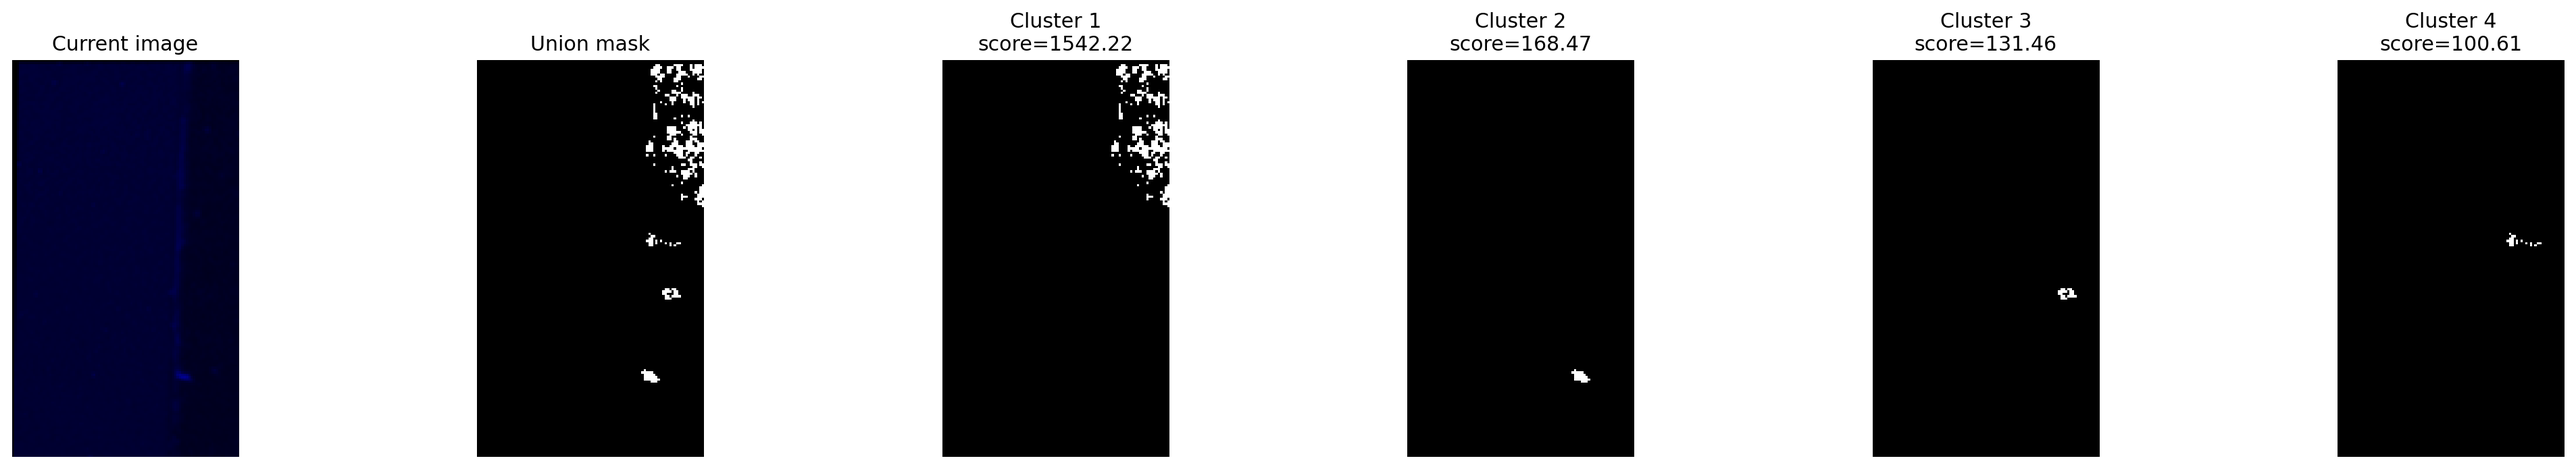
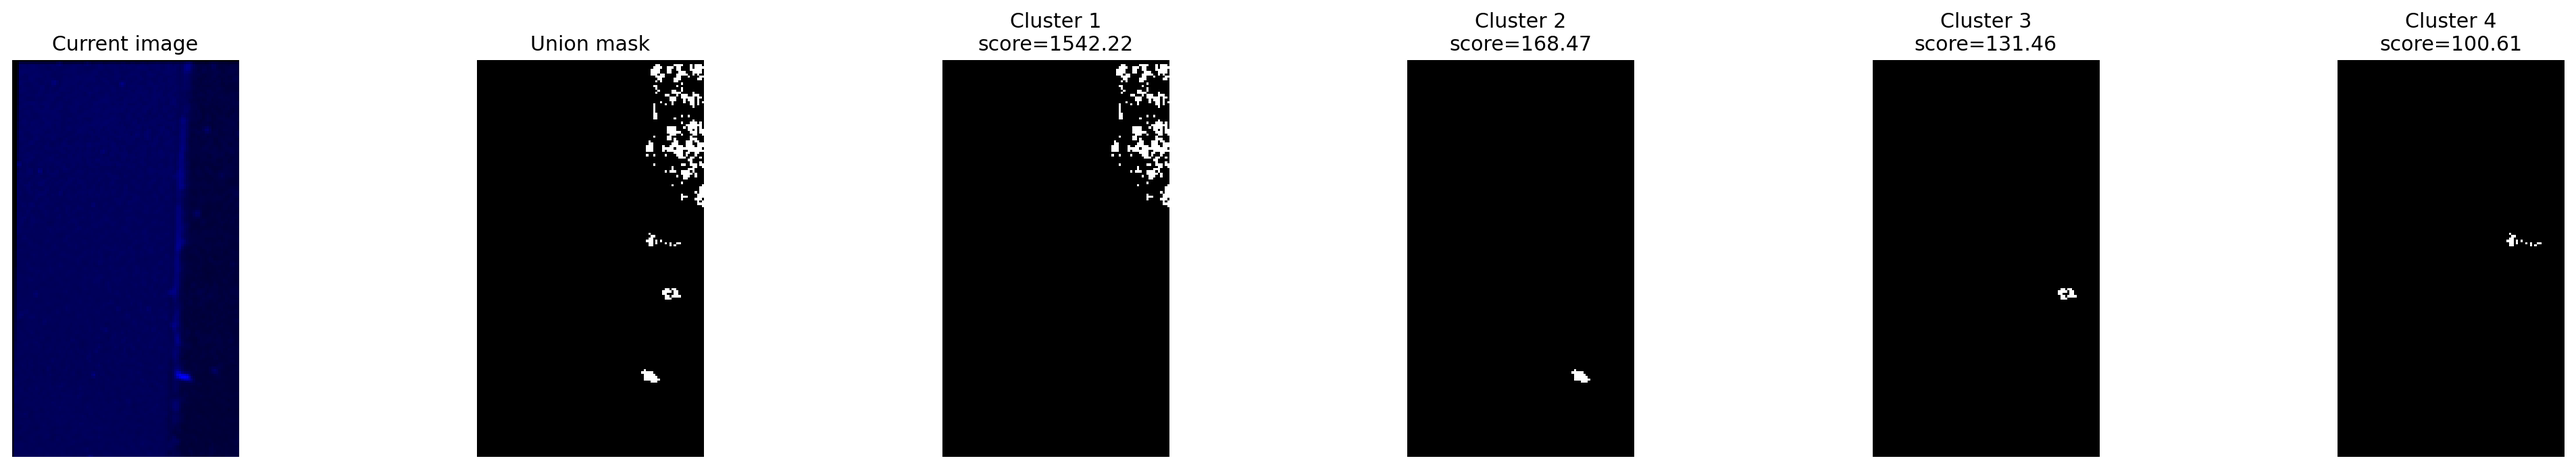
record timing for experiments

Changed region(s): [[0.0, 0.1209, 0.0936, 0.9971]]

diff --git a/scripts/time_uvifl_sequence.py b/scripts/time_uvifl_sequence.py
@@ -1,0 +1,71 @@
+import argparse
+from pathlib import Path
+import sys
+from time import perf_counter
+
+PROJECT_ROOT = Path(__file__).resolve().parents[1]
+if str(PROJECT_ROOT) not in sys.path:
+    sys.path.insert(0, str(PROJECT_ROOT))
+
+from src.config import load_uvifl_config
+from src.detector import AContrarioDetector
+from src.experiments import prepare_uvifl_pair
+
+
+def parse_args() -> argparse.Namespace:
+    parser = argparse.ArgumentParser(description="Measure runtime for one full UVIFL sequence.")
+    parser.add_argument("--config", type=Path, required=True)
+    parser.add_argument("--sequence", type=str, required=True)
+    parser.add_argument("--time", type=int)
+    parser.add_argument("--output-root", type=Path, default=Path("outputs/timings"))
+    return parser.parse_args()
+
+
+def main() -> None:
+    args = parse_args()
+    config = load_uvifl_config(args.config)
+    sequence_config = config.sequences[args.sequence]
+    detector = AContrarioDetector(config.detector)
+    times = [args.time] if args.time is not None else sequence_config.candidate_times
+
+    args.output_root.mkdir(parents=True, exist_ok=True)
+
+    lines: list[str] = []
+    lines.append(f"Sequence: {sequence_config.name}")
+    lines.append(f"Config: {args.config}")
+    lines.append(f"Max points: {config.detector.max_points}")
+    lines.append(f"Quantization levels: {config.detector.quantization_levels}")
+    lines.append("")
+
+    total_start = perf_counter()
+    for time in times:
+        start = perf_counter()
+        pair = prepare_uvifl_pair(sequence_config, config.preprocessing, time)
+        result = detector.run(pair.diff_map)
+        elapsed = perf_counter() - start
+        lines.append(
+            f"time={time:02d} shot={pair.chosen_shot} "
+            f"elapsed_seconds={elapsed:.4f} "
+            f"selected_clusters={len(result.selected_clusters)}"
+        )
+    total_elapsed = perf_counter() - total_start
+
+    lines.append("")
+    lines.append(f"Total elapsed seconds: {total_elapsed:.4f}")
+    lines.append(f"Average per timepoint seconds: {total_elapsed / len(times):.4f}")
+
+    max_points = "none" if config.detector.max_points is None else str(config.detector.max_points)
+    quantization = config.detector.quantization_levels
+    time_suffix = f"_time_{args.time:02d}" if args.time is not None else "_all_times"
+    output_path = (
+        args.output_root
+        / f"{sequence_config.name}{time_suffix}_maxpoints_{max_points}_qlevels_{quantization}_timing.txt"
+    )
+    output_path.write_text("\n".join(lines) + "\n", encoding="utf-8")
+
+    print(f"Wrote timing report to {output_path}")
+    print(f"Total elapsed seconds: {total_elapsed:.4f}")
+
+
+if __name__ == "__main__":
+    main()

diff --git a/src/visualization.py b/src/visualization.py
@@ -12,6 +12,19 @@ def ensure_dir(path: Path) -> None:
     path.mkdir(parents=True, exist_ok=True)
 
 
+def displayable_rgb(image: np.ndarray) -> np.ndarray:
+    image = image.astype(np.float32)
+    if image.size == 0:
+        return image
+    image_min = float(image.min())
+    image_max = float(image.max())
+    if image_max <= 1.0 and image_min >= 0.0:
+        return image
+    if image_max - image_min < 1e-8:
+        return np.zeros_like(image, dtype=np.float32)
+    return (image - image_min) / (image_max - image_min)
+
+
 def binary_mask_image(mask: np.ndarray) -> np.ndarray:
     return np.where(mask, 255, 0).astype(np.uint8)
 
@@ -29,7 +42,7 @@ def save_cluster_gallery(result: DetectionResult, pair: PreparedPair, out_path: 
     fig, axes = plt.subplots(1, columns, figsize=(4 * columns, 4))
 
     axes = np.atleast_1d(axes)
-    axes[0].imshow(pair.target)
+    axes[0].imshow(displayable_rgb(pair.target))
     axes[0].set_title("Current image")
     axes[0].axis("off")
 
@@ -68,15 +81,15 @@ def save_cluster_overlay_panel(result: DetectionResult, pair: PreparedPair, out_
     fig, axes = plt.subplots(1, 3, figsize=(15, 5))
     axes = np.atleast_1d(axes)
 
-    axes[0].imshow(pair.reference)
+    axes[0].imshow(displayable_rgb(pair.reference))
     axes[0].set_title("Reference")
     axes[0].axis("off")
 
-    axes[1].imshow(pair.target)
+    axes[1].imshow(displayable_rgb(pair.target))
     axes[1].set_title("Current")
     axes[1].axis("off")
 
-    axes[2].imshow(pair.target)
+    axes[2].imshow(displayable_rgb(pair.target))
     axes[2].set_title("Clusters overlay")
     axes[2].axis("off")
 
